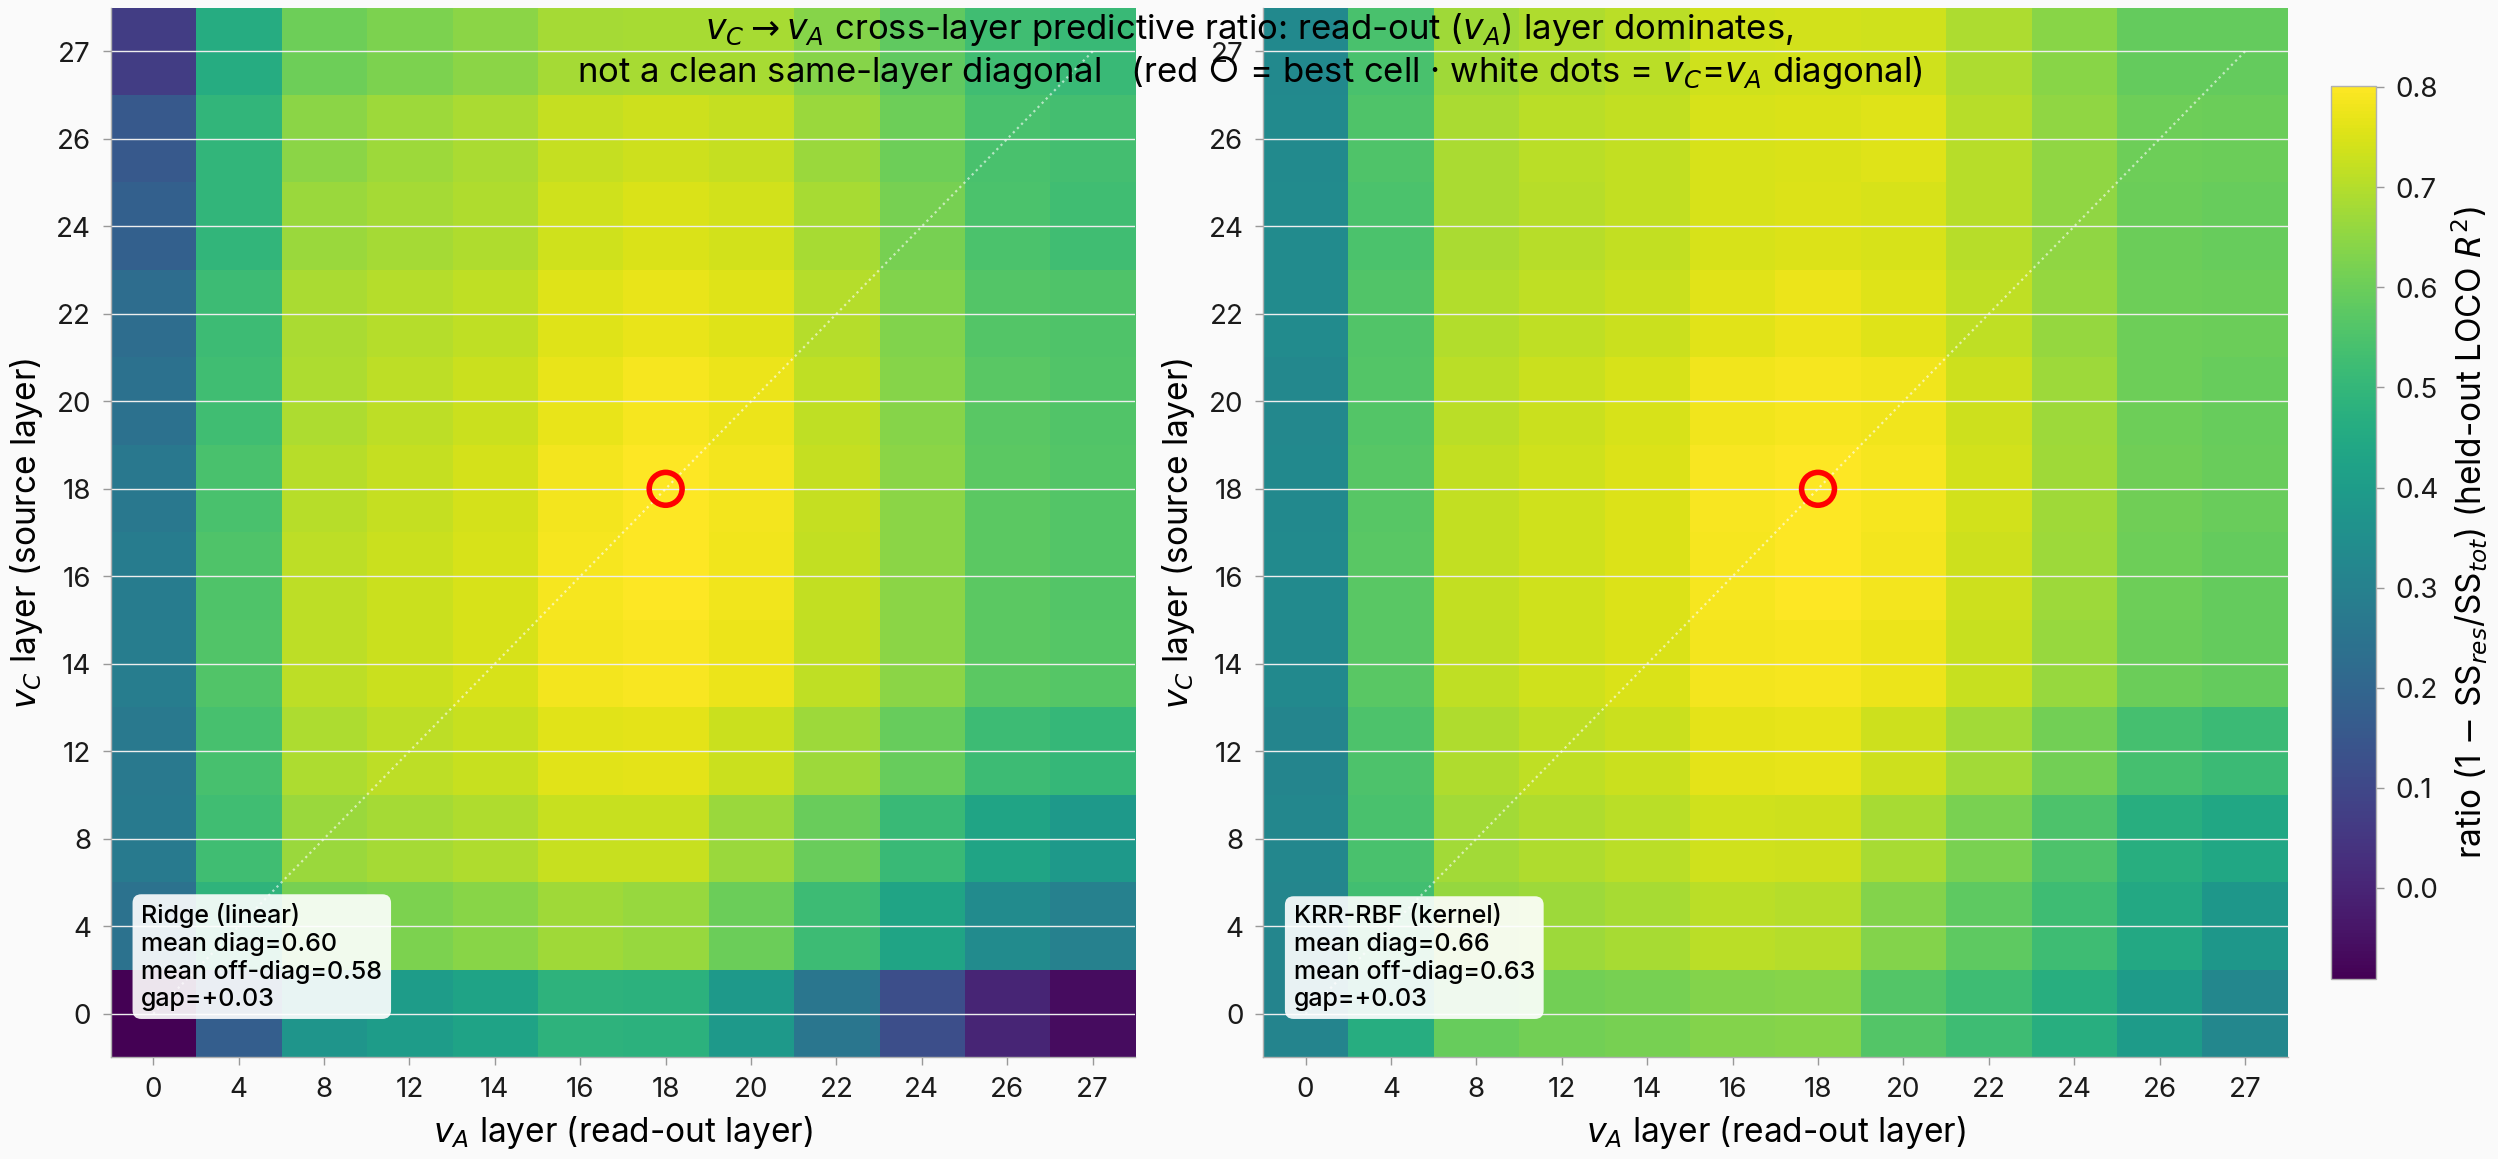
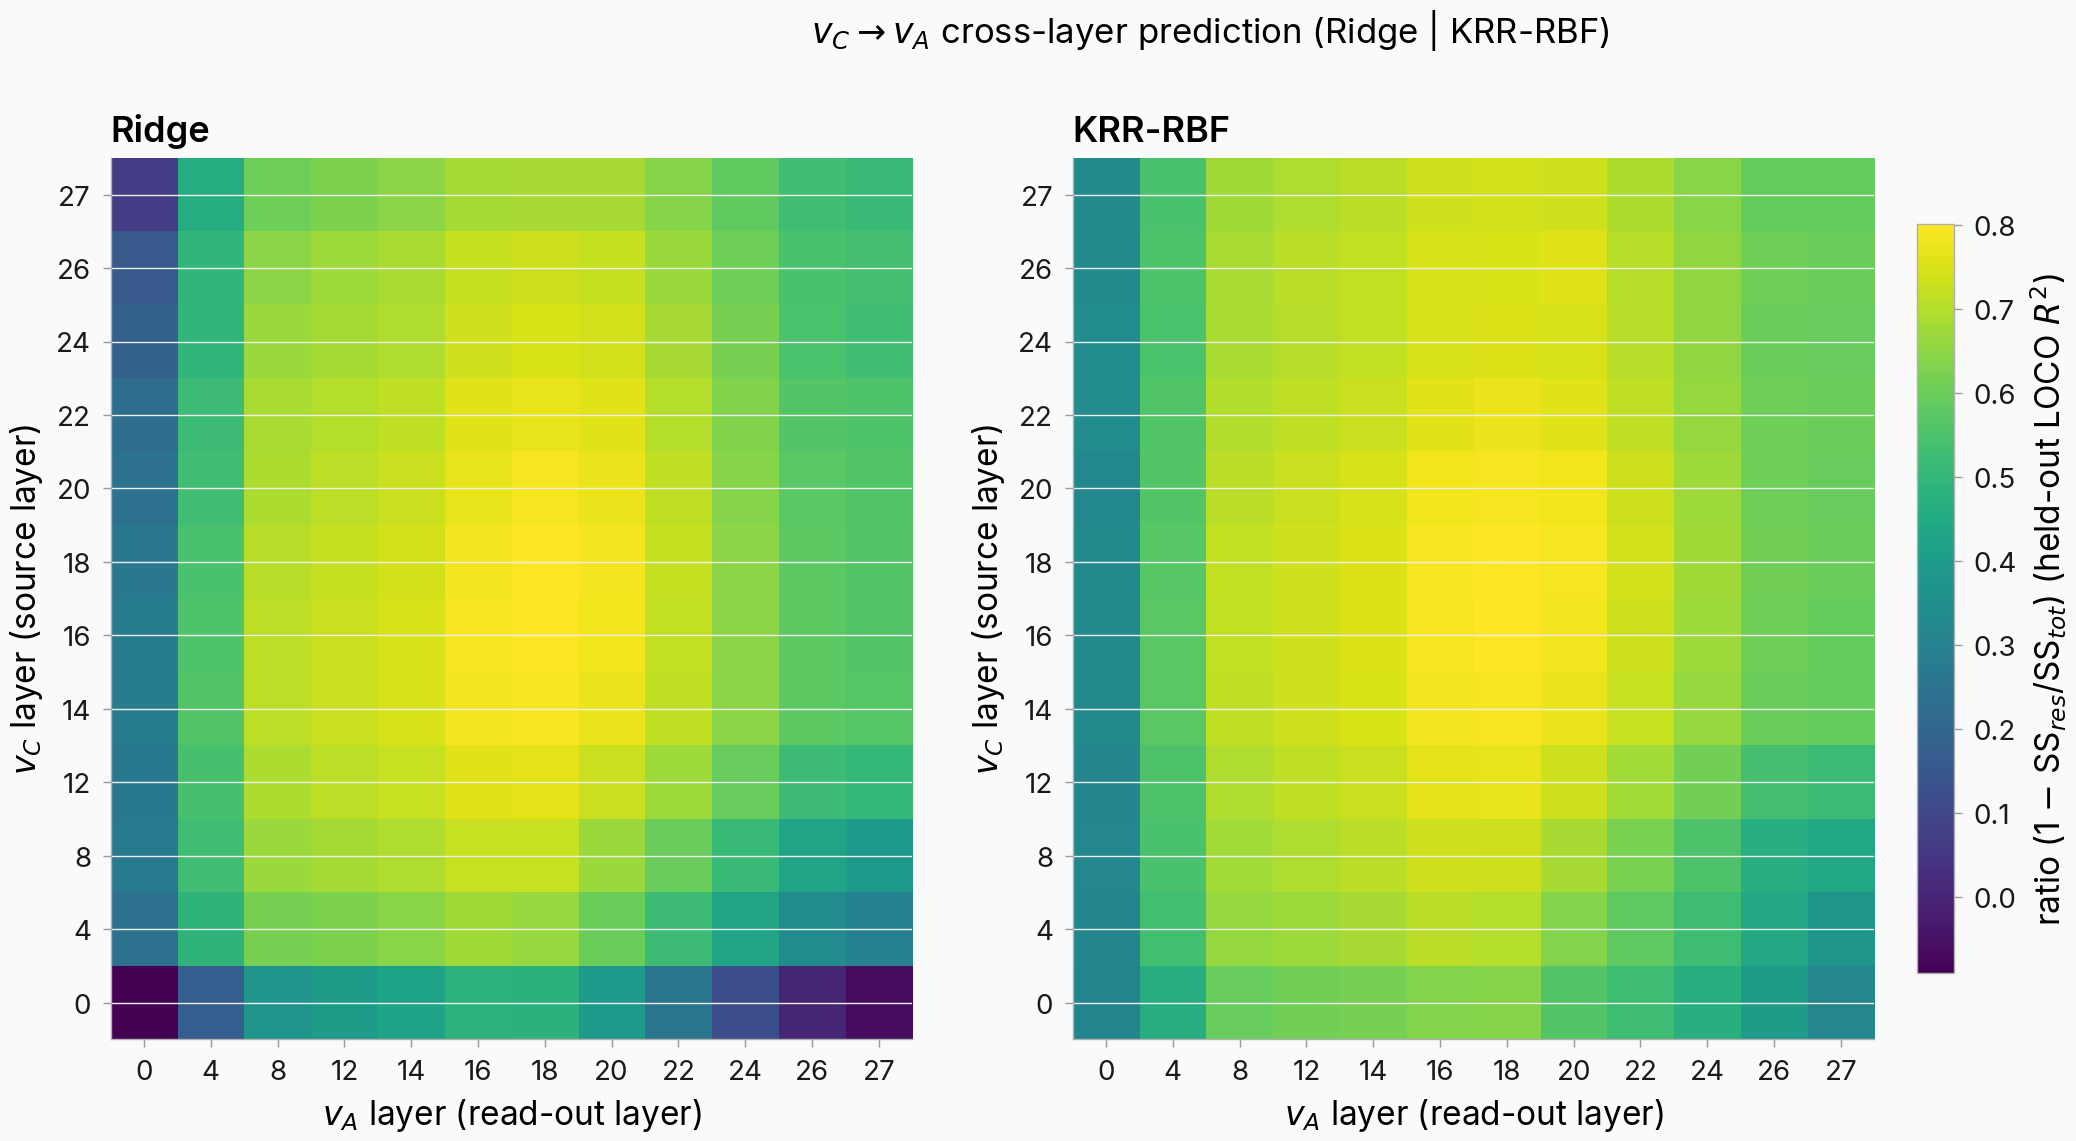
issue-722 Result-2: strip all interpretation, data-only cross-layer heatmaps
Regenerate figures/issue_722/result2_cross_layer.png from the committed
precomputed grid (eval_results/issue_722/doc_figures/docplots_data.json) with
no recompute. Remove every interpretive/annotation element from the figure:
- editorial suptitle clause -> neutral "v_C -> v_A cross-layer prediction (Ridge | KRR-RBF)"
- per-panel stat boxes (mean diag / off-diag / gap)
- red best-cell circle
- white dotted v_C=v_A diagonal line + dots
- marker legend
Keep just the data: two heatmaps, axes (v_C/v_A), plain panel titles
(Ridge | KRR-RBF), shared colorbar. Heatmap values unchanged. result1/result3
untouched.

diff --git a/scripts/issue722_doc_figures.py b/scripts/issue722_doc_figures.py
@@ -137,7 +137,9 @@ print(
 
 
 # ─────────────────────────────────────────────────────────────────────────────
-# RESULT 2 — cross-layer ridge | KRR grids, with column/row-mean margins + flag
+# RESULT 2 — cross-layer ridge | KRR grids (DATA ONLY: two clean heatmaps + colorbar)
+# All interpretation/annotation removed — no stat boxes, no best-cell circle, no
+# v_C=v_A diagonal markers, no marker legend, neutral suptitle + plain panel titles.
 # ─────────────────────────────────────────────────────────────────────────────
 r2 = DATA["result2"]
 gl = r2["grid_layers"]
@@ -146,9 +148,16 @@ K = np.array(r2["krr_rbf_grid"])
 vmin = min(R.min(), K.min())
 vmax = max(R.max(), K.max())
 
-fig, axes = plt.subplots(1, 2, figsize=(12.5, 5.8))
+# The "blog" style enables constrained_layout via rcParams; turn it off for this figure
+# so the manual subplots_adjust below keeps the plain panel titles clear of the suptitle.
+_prev_cl = plt.rcParams["figure.constrained_layout.use"]
+_prev_al = plt.rcParams["figure.autolayout"]
+plt.rcParams["figure.constrained_layout.use"] = False
+plt.rcParams["figure.autolayout"] = False
+fig, axes = plt.subplots(1, 2, figsize=(12.5, 5.8), layout=None)
+fig.set_layout_engine("none")
 fig.subplots_adjust(top=0.86, bottom=0.10, left=0.06, right=0.91, wspace=0.20)
-for ax, M, name in [(axes[0], R, "Ridge (linear)"), (axes[1], K, "KRR-RBF (kernel)")]:
+for ax, M, name in [(axes[0], R, "Ridge"), (axes[1], K, "KRR-RBF")]:
     im = ax.imshow(M, origin="lower", aspect="auto", cmap="viridis", vmin=vmin, vmax=vmax)
     ax.set_xticks(range(len(gl)))
     ax.set_xticklabels(gl)
@@ -156,31 +165,11 @@ for ax, M, name in [(axes[0], R, "Ridge (linear)"), (axes[1], K, "KRR-RBF (kerne
     ax.set_yticklabels(gl)
     ax.set_xlabel(r"$v_A$ layer (read-out layer)")
     ax.set_ylabel(r"$v_C$ layer (source layer)")
-    # mark the best cell
-    bi, bj = np.unravel_index(np.argmax(M), M.shape)
-    ax.scatter([bj], [bi], s=140, facecolors="none", edgecolors="red", lw=2.0, zorder=5)
-    # diagonal guide
-    ax.plot(range(len(gl)), range(len(gl)), color="white", lw=0.8, ls=":", alpha=0.6)
-    diag = np.array([M[i, i] for i in range(len(gl))])
-    off = np.array([M[i, j] for i in range(len(gl)) for j in range(len(gl)) if i != j])
-    # panel name + stats together in one in-axes box (no title row -> no suptitle overlap)
-    ax.text(
-        0.03,
-        0.045,
-        f"{name}\nmean diag={diag.mean():.2f}\nmean off-diag={off.mean():.2f}\n"
-        f"gap={diag.mean() - off.mean():+.2f}",
-        transform=ax.transAxes,
-        fontsize=9,
-        va="bottom",
-        ha="left",
-        fontweight="medium",
-        bbox=dict(boxstyle="round,pad=0.35", fc="white", ec="0.55", alpha=0.9),
-    )
+    ax.set_title(name)
 cbar = fig.colorbar(im, ax=axes.ravel().tolist(), shrink=0.85, pad=0.02)
 cbar.set_label("ratio (1 $-$ SS$_{res}$/SS$_{tot}$) (held-out LOCO $R^2$)")
 fig.suptitle(
-    r"$v_C \rightarrow v_A$ cross-layer predictive ratio: read-out ($v_A$) layer dominates,"
-    "\nnot a clean same-layer diagonal   (red ○ = best cell · white dots = $v_C$=$v_A$ diagonal)",
+    r"$v_C \rightarrow v_A$ cross-layer prediction (Ridge | KRR-RBF)",
     fontsize=12.5,
     y=0.99,
     va="top",
@@ -189,13 +178,13 @@ p2 = str(OUT / "result2_cross_layer.png")
 fig.savefig(p2, dpi=200)
 fig.savefig(p2.replace(".png", ".pdf"))
 plt.close(fig)
+plt.rcParams["figure.constrained_layout.use"] = _prev_cl
+plt.rcParams["figure.autolayout"] = _prev_al
 _meta(
     p2,
     {
         "ridge_stats": r2["ridge_stats"],
         "krr_stats": r2["krr_stats"],
-        "flag": "v_A-read-layer-dominant: diag-offdiag gap tiny; "
-        "best column (v_A read layer) range large; NOT a clean same-layer diagonal",
     },
 )
 print("R2:", p2)
